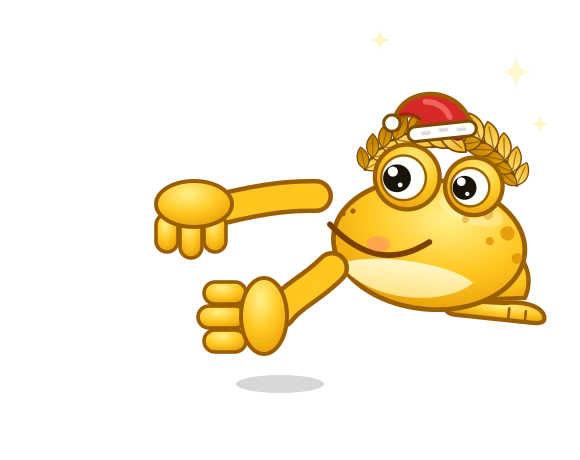
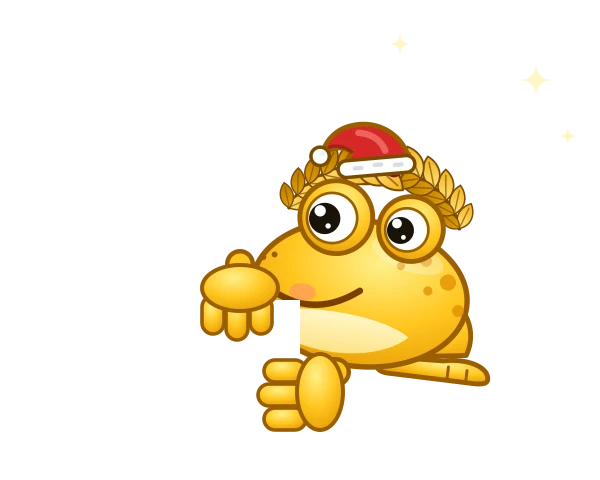
feat: redraw corner mascot peeking from behind the corner

diff --git a/backend/scripts/gen-popup-mascot.ts b/backend/scripts/gen-popup-mascot.ts
@@ -1,6 +1,6 @@
 /**
  * Dựng ảnh Cóc Pass đội nón Noel đu bám vào góc trên bên phải của popup: frontend/public/promo/mascot-corner.webp (nền trong suốt).
- * Điểm góc của popup nằm ở CORNER (toạ độ ảnh 290x230): tay trên bám mép trên (y = CORNER.y), tay dưới bám mép phải (x = CORNER.x).
+ * Điểm góc của popup nằm ở CORNER (toạ độ ảnh 300x240): tay trên bám mép trên (y = CORNER.y), tay dưới bám mép phải (x = CORNER.x).
  * Popup đặt ảnh theo hai số này nên đổi CORNER thì phải đổi cả nơi đặt ảnh.
  * Chạy lại:  npx tsx scripts/gen-popup-mascot.ts
  */
@@ -10,35 +10,33 @@ import sharp from "sharp";
 import { MASCOT_SVG } from "../../frontend/src/shared/ui/mascot-art";
 import { santaHat } from "../../frontend/src/shared/ui/santa-hat";
 
-export const W = 290;
-export const H = 230;
-export const CORNER = { x: 120, y: 110 };
+export const W = 300;
+export const H = 240;
+export const CORNER = { x: 150, y: 150 };
 const OUT = path.resolve(__dirname, "../../frontend/public/promo/mascot-corner.webp");
 const BROWN = "#9a5f00";
 
 // Thân + đầu của mascot (bỏ bảng danh hiệu và hai tay đỡ bảng)
 const head = MASCOT_SVG.slice(MASCOT_SVG.indexOf("<defs>"), MASCOT_SVG.indexOf('<g><rect x="64" y="68"'));
 
-// Tay ngắn, mập, đầu tròn như tay cầm bảng của mascot gốc (hai nét viền: nâu rồi vàng)
-const arm = (d: string) => `<path d="${d}" fill="none" stroke="${BROWN}" stroke-width="17" stroke-linecap="round"/><path d="${d}" fill="none" stroke="#ffc61f" stroke-width="12.5" stroke-linecap="round"/>`;
 const digit = (x: number, y: number, w: number, h: number) => `<rect x="${x}" y="${y}" width="${w}" height="${h}" rx="${Math.min(w, h) / 2}" fill="url(#gold)" stroke="${BROWN}" stroke-width="1.8"/>`;
 const sparkle = (x: number, y: number, r: number) => `<path d="M${x} ${y - r}Q${x} ${y} ${x + r} ${y}Q${x} ${y} ${x} ${y + r}Q${x} ${y} ${x - r} ${y}Q${x} ${y} ${x} ${y - r}Z" fill="#fff6c8"/>`;
+const stub = (d: string) => `<path d="${d}" fill="none" stroke="${BROWN}" stroke-width="15" stroke-linecap="round"/><path d="${d}" fill="none" stroke="#ffc61f" stroke-width="10.5" stroke-linecap="round"/>`;
 
 const { x: cx, y: cy } = CORNER;
-// Cóc đứng bên cạnh phải của popup, quay mặt sang trái (lật ngang), nghiêng nhẹ; một tay vắt qua góc bám mép trên, một tay bám mép phải
+// Cóc núp sau góc trên bên phải của popup, ló đầu ra và bám hai tay vào hai mép: thân chỉ vẽ phần nằm NGOÀI popup (clipPath), nên không cần vẽ tay dài
 const svg = `<svg xmlns="http://www.w3.org/2000/svg" width="${W * 2}" height="${H * 2}" viewBox="0 0 ${W} ${H}">
-  <defs></defs>
-  <ellipse cx="${cx + 20}" cy="${cy + 82}" rx="22" ry="4.5" fill="#000" opacity=".16"/>
-  ${sparkle(258, 36, 9)}${sparkle(270, 62, 5)}${sparkle(190, 20, 6)}
-  <g transform="translate(202 104) rotate(6) scale(-1.2 1.2) translate(-66 -50)">${head}${santaHat(53, 19, 0.62, 12)}</g>
-  ${arm(`M158 98C148 98 136 98 ${cx - 12} ${cy - 5}`)}
-  ${arm(`M166 134C156 144 146 148 ${cx + 20} ${cy + 46}`)}
-  <!-- bàn tay trên: ba ngón mập rủ xuống mặt trước của mép trên, lòng bàn tay nằm trên mép -->
-  <g>${digit(cx - 42, cy - 3, 11, 19)}${digit(cx - 30, cy - 3, 11, 22)}${digit(cx - 18, cy - 3, 11, 19)}
-  <ellipse cx="${cx - 23}" cy="${cy - 8}" rx="19" ry="11.5" fill="url(#gold)" stroke="${BROWN}" stroke-width="2"/></g>
+  <defs><clipPath id="outside"><path clip-rule="evenodd" d="M0 0H${W}V${H}H0Z M0 ${cy}H${cx}V${H}H0Z"/></clipPath></defs>
+  ${sparkle(268, 40, 9)}${sparkle(284, 68, 5)}${sparkle(200, 22, 6)}
+  <g clip-path="url(#outside)"><g transform="translate(${cx + 16} ${cy - 24}) rotate(7) scale(-1.35 1.35) translate(-66 -50)">${head}${santaHat(53, 19, 0.62, 12)}</g></g>
+  ${stub(`M${cx - 30} ${cy - 18}V${cy - 6}`)}
+  ${stub(`M${cx + 18} ${cy + 36}H${cx + 8}`)}
+  <!-- bàn tay trên: ba ngón mập rủ xuống mặt trước của mép trên -->
+  <g>${digit(cx - 49, cy - 2, 11, 19)}${digit(cx - 37, cy - 2, 11, 22)}${digit(cx - 25, cy - 2, 11, 19)}
+  <ellipse cx="${cx - 30}" cy="${cy - 6}" rx="19" ry="11.5" fill="url(#gold)" stroke="${BROWN}" stroke-width="2"/></g>
   <!-- bàn tay dưới: ba ngón mập vòng sang mặt trước của mép phải -->
-  <g>${digit(cx - 18, cy + 31, 21, 11)}${digit(cx - 21, cy + 43, 24, 11)}${digit(cx - 18, cy + 55, 21, 11)}
-  <ellipse cx="${cx + 12}" cy="${cy + 48}" rx="11.5" ry="19" fill="url(#gold)" stroke="${BROWN}" stroke-width="2"/></g>
+  <g>${digit(cx - 18, cy + 30, 21, 11)}${digit(cx - 21, cy + 42, 24, 11)}${digit(cx - 18, cy + 54, 21, 11)}
+  <ellipse cx="${cx + 10}" cy="${cy + 46}" rx="11.5" ry="19" fill="url(#gold)" stroke="${BROWN}" stroke-width="2"/></g>
 </svg>`;
 
 void (async () => {
